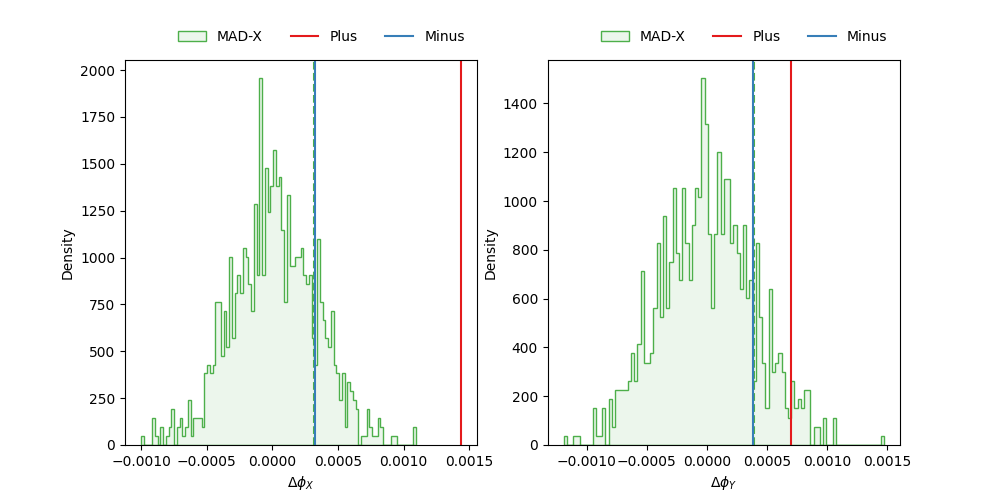
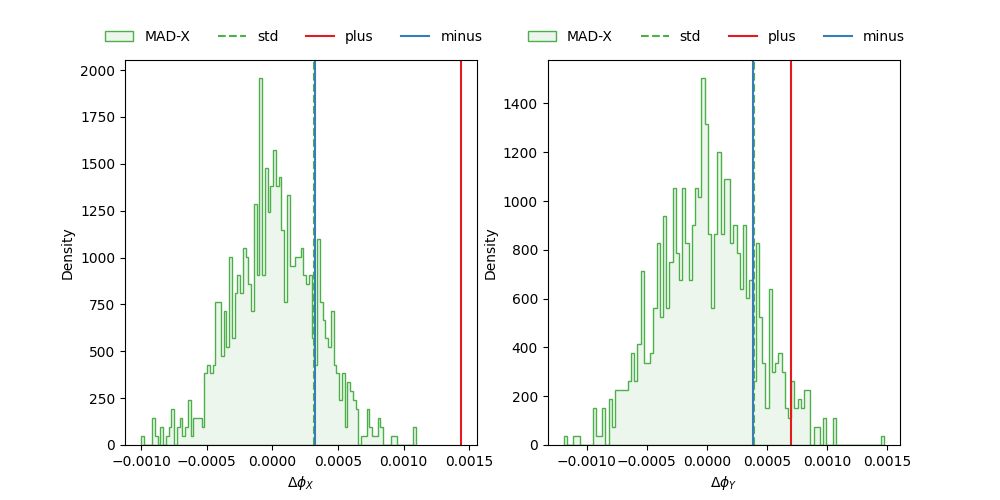
review michi + some

diff --git a/FODO_Test_Lattice/Phase_Error_Propagation/phase_propagation.py b/FODO_Test_Lattice/Phase_Error_Propagation/phase_propagation.py
@@ -14,6 +14,10 @@ RNG = np.random.default_rng(27837)
 FloatOrArray = Union[float, np.ndarray, pd.Series]
 
 
+# Arbitrarily choosen boundary conditions, enhancing the spread between 
+# the two propagation formulas:
+
+
 # Classes ----------------------------------------------------------------------
 
 @dataclass 
@@ -55,18 +59,23 @@ class MadXBoundaryConditions:
 
 def create_realizations(output: Path, n: int = 100) -> pd.DataFrame:
     """Main function to generate the phase advance realizations.
-    The mean and std values are hardcoded and choosen to have a final phase advance 
-    of around 0.25 (far away from 0.5) in units of 2 Pi.
+    The mean and std values of the boundary conditions  are hardcoded and 
+    choosen to yield a final phase advance of around 0.25 (far away from 0.5) 
+    in units of 2 Pi.
 
     Args:
         output (Path): Path to save the output tfs-file.
         n (int, optional): Number of realizations to generate. Defaults to 100.
+
+    Returns:
+        pd.DataFrame: Phase advance realizations, propagated analytically and with MAD-X.
     """
     madx = generate_fodo()
     madx.twiss(chrom=True)
-
+    
     x = PropagableBoundaryConditions(alpha=ufloat(-1.6, 0.002), beta=ufloat(3.467, 0.025))
     y = PropagableBoundaryConditions(alpha=ufloat(2.16, 0.002), beta=ufloat(7.14, 0.016))
+    
     no_error = MadXBoundaryConditions(
         alfx=x.alpha.nominal_value, 
         betx=x.beta.nominal_value, 
@@ -105,18 +114,26 @@ def create_realizations(output: Path, n: int = 100) -> pd.DataFrame:
         df[f"MADXY{idx:03d}"] = diff_y
 
     tfs.write(output, df, save_index="NAME")
+
+    madx.exit()
     return df
 
 
 # Helper ---
 
-def generate_fodo(sequence: str ="fodo") -> Madx:
+def generate_fodo(madx: Madx = None, sequence: str ="fodo") -> Madx:
     """Generate a standard FODO sequence.
     
     Args:
-        sequence (str): Sequence name.
+        madx (Madx): Mad-X cpymad object (Optional).
+        sequence (str): Sequence name. Defaults to "fodo".
+    
+    Returns:
+        Madx: Mad-X cpymad object with new FODO cell sequence.
     """
-    madx = Madx()
+    if madx is None:
+        madx = Madx()
+
     madx.beam()
     madx.globals["mqf.k1"] = 0.3037241107
     madx.globals["mqd.k1"] = -madx.globals["mqf.k1"]
@@ -139,6 +156,9 @@ def generate_df(madx: Madx, sequence: str, boundary_conditions: MadXBoundaryCond
         madx (Madx): Mad-X cpymad object.
         sequence (str): Sequence name.
         boundary_conditions (MadXBoundaryConditions): Boundary conditions.
+    
+    Returns:
+        pd.DataFrame: Output from Mad-X twiss using the given boundary conditions.
     """
     if boundary_conditions is None:
         boundary_conditions = MadXBoundaryConditions()
@@ -151,7 +171,7 @@ def generate_df(madx: Madx, sequence: str, boundary_conditions: MadXBoundaryCond
 
 # Propagate Errors -------------------------------------------------------------
 
-def propagate_with_minus(dphi: FloatOrArray, init: PropagableBoundaryConditions):
+def propagate_with_minus(dphi: FloatOrArray, init: PropagableBoundaryConditions) -> FloatOrArray:
     """Phase error propagation as given in Eq. (2) of the paper,
     but the first plus sign replaced with a minus sign.
 
@@ -255,27 +275,27 @@ def plot_realizations(saved_realizations: Union[Path, pd.DataFrame], element: st
             madx_res.std(),
             color=color_madx,
             linestyle='--',
-            label="_MADX_MEAN",
+            label="std",
         )
         ax.axvline(
             df.loc[element, f"PLUS{plane}"],
             color=color_prop_plus,
             linestyle='-',
-            label="Plus",
+            label="plus",
         )
         ax.axvline(
             df.loc[element, f"MINUS{plane}"],
             color=color_prop_minus,
             linestyle='-',
-            label="Minus",
+            label="minus",
         )
         ax.legend(
-            bbox_to_anchor=(1, 1.01), 
+            bbox_to_anchor=(1.05, 1.01), 
             loc='lower right', 
             fancybox=False, 
             shadow=False, 
             frameon=False, 
-            ncol=3
+            ncol=4
         )
         ax.set_xlabel(fr"$\Delta\phi_{plane}$")
         ax.set_ylabel("Density")

diff --git a/FODO_Test_Lattice/Phase_Error_Propagation/README.md b/FODO_Test_Lattice/Phase_Error_Propagation/README.md
@@ -2,24 +2,32 @@
 
 ## Motivation 
 
-This small study aims to investigate how phase errors, 
-determined by the errors on alpha and beta of the boundary conditions,
-propagate through the lattice.
+This small study aims to investigate how phase errors propagate through the lattice, 
+using alpha and beta and their errors as boundary conditions.
 
 In particular, this is a test whether the first plus-sign in 
 Eq. (2) of 10.18429/JACOW-IPAC2015-MOPJE054  
 ( http://jacow.org/ipac2015/doi/JACoW-IPAC2015-MOPJE054.html )
 should in fact be a minus sign:
+$$
+\sigma^2_\phi(s) = \left(\frac{1}{2\beta_0}\left(\left(\cos(2\phi(s)) -1 \right)\alpha_0 + \sin(2\phi(s))\right) \right)^2\sigma_{\beta_0}^2 + \left(\frac{1}{2}\left(\cos(2\phi(s)) -1 \right)\right)\sigma_{\alpha_0}^2 \qquad (1)
+$$
+$$
+\sigma^2_\phi(s) = \left(\frac{1}{2\beta_0}\left(\left(\cos(2\phi(s)) -1 \right)\alpha_0 - \sin(2\phi(s))\right) \right)^2\sigma_{\beta_0}^2 + \left(\frac{1}{2}\left(\cos(2\phi(s)) -1 \right)\right)\sigma_{\alpha_0}^2 \qquad (2)
+$$
+
 Suitable alpha0 and beta0, means and standard deviations, 
 are choosen and realized as boundary conditions for the FODO-lattice from 
-gaussian distributions.
+Gaussian distributions.
+
 From the resulting phase advance distributions, 
 shifted to zero by the phase advance of the realization with only mean-values, 
-the standard deviation is calculated and compared to
-the analytically propagated results.
+the standard deviation is calculated (dashed green line) and compared to
+the analytically propagated results 
+(red for Eq. (1) with plus, blue for Eq. (2) with minus).
+The plots show that the error propagation formula Eq. (2), 
+with a negative sign, is the correct one.
 
-The resulting plots show that, indeed, the error propagation formular with
-a negative sign is the correct one.
 ![Result for 1000 realizations](result_1000realizations.png "Result for 1000 realizations")
 
 ## Setup
